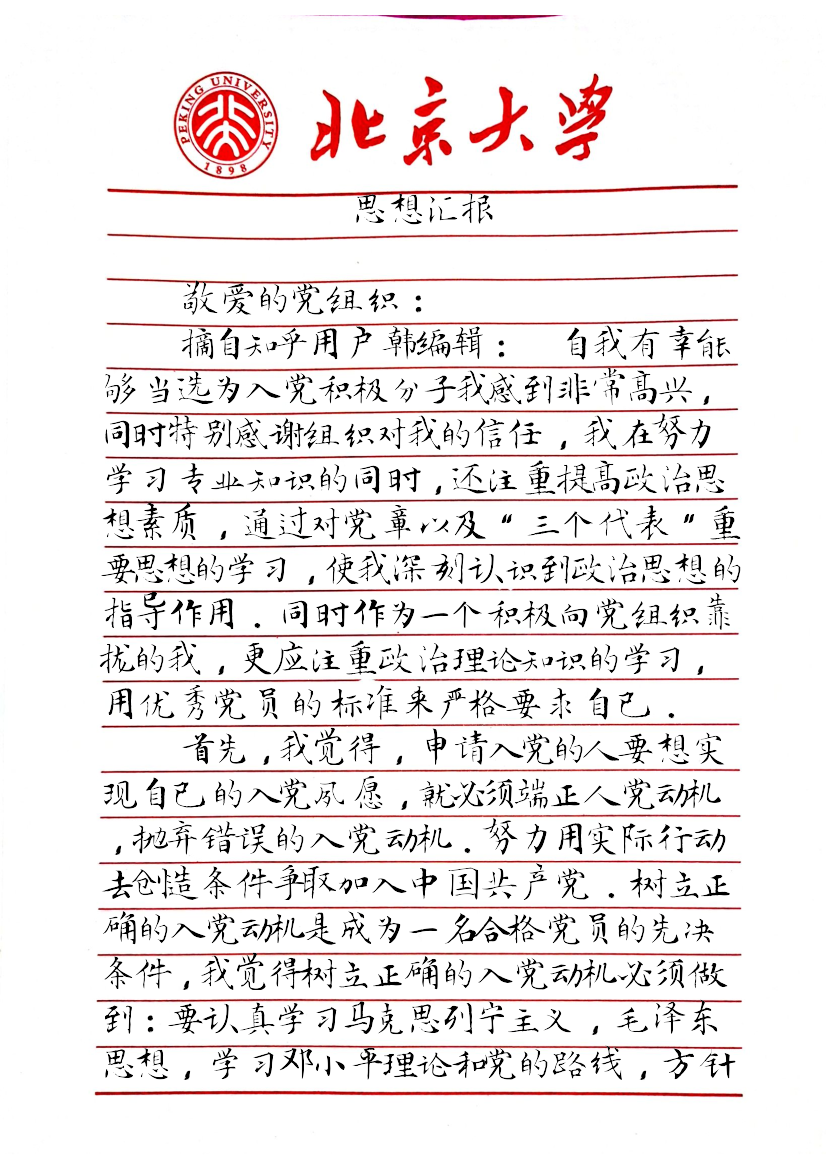
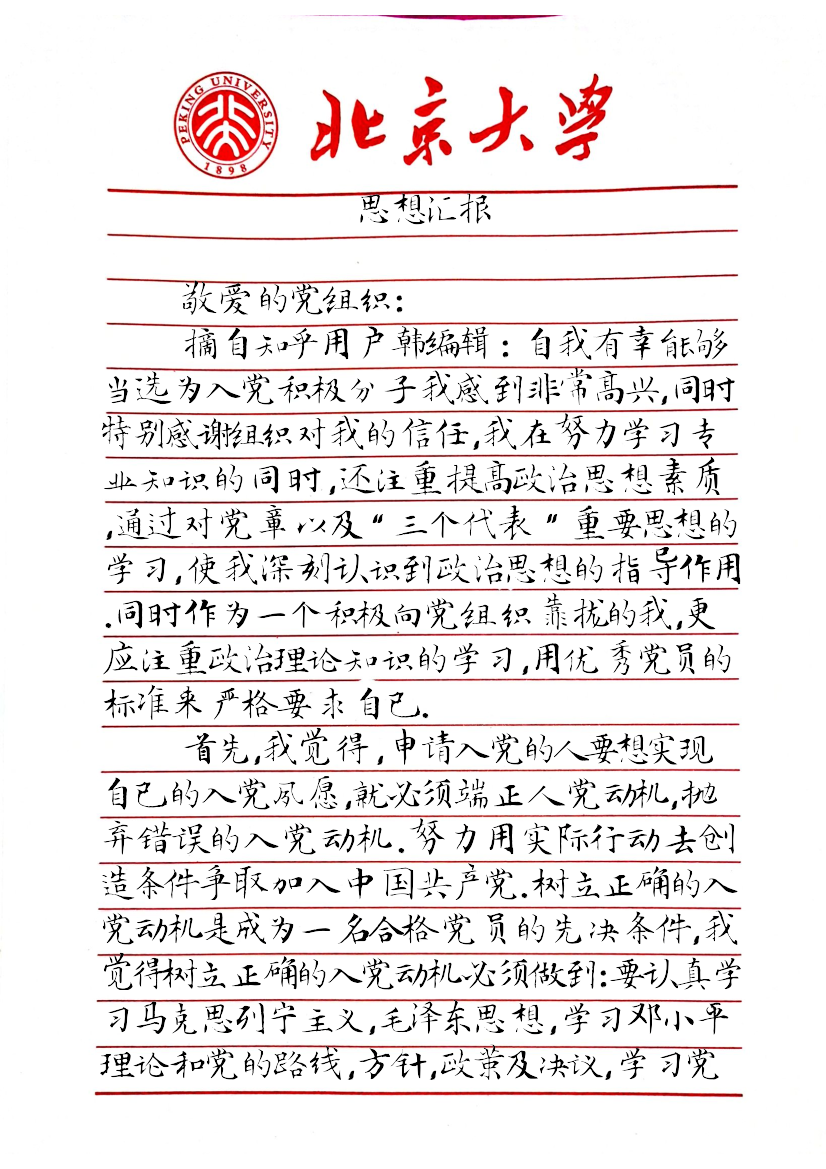
update hndwrt

Changed region(s): [[0.1211, 0.2464, 0.908, 0.9239], [0.4237, 0.154, 0.6053, 0.1848]]

diff --git a/hndwrtPrint/comb.py b/hndwrtPrint/comb.py
@@ -77,7 +77,8 @@ class artic:
             self.main should be text list separated by the paragraph. The title is the first element
             """
             self.main_proto = f.readlines()
-            self.main_proto = [x[:-1] for x in self.main_proto if x != "\n"]
+            # Delete empty line and remove all space
+            self.main_proto = [x[:-1].replace(" ", "") for x in self.main_proto if x != "\n"]
 
         self.gen = gen
         self.charHeight = self.gen.getHeight()

diff --git a/hndwrtPrint/handWriting.py b/hndwrtPrint/handWriting.py
@@ -44,6 +44,8 @@ class char2imgFromFont:
         img = Image.new("RGBA", [w, h])
         dr = ImageDraw.Draw(img)
         if char in punc:
+            # make punctuation width be half of letter.
+            w = int(0.5 * w)
             char = punc[char]
         rw, rh = font.getsize(char)
         pos = [(w - rw) / 2, (h - rh) / 2]
